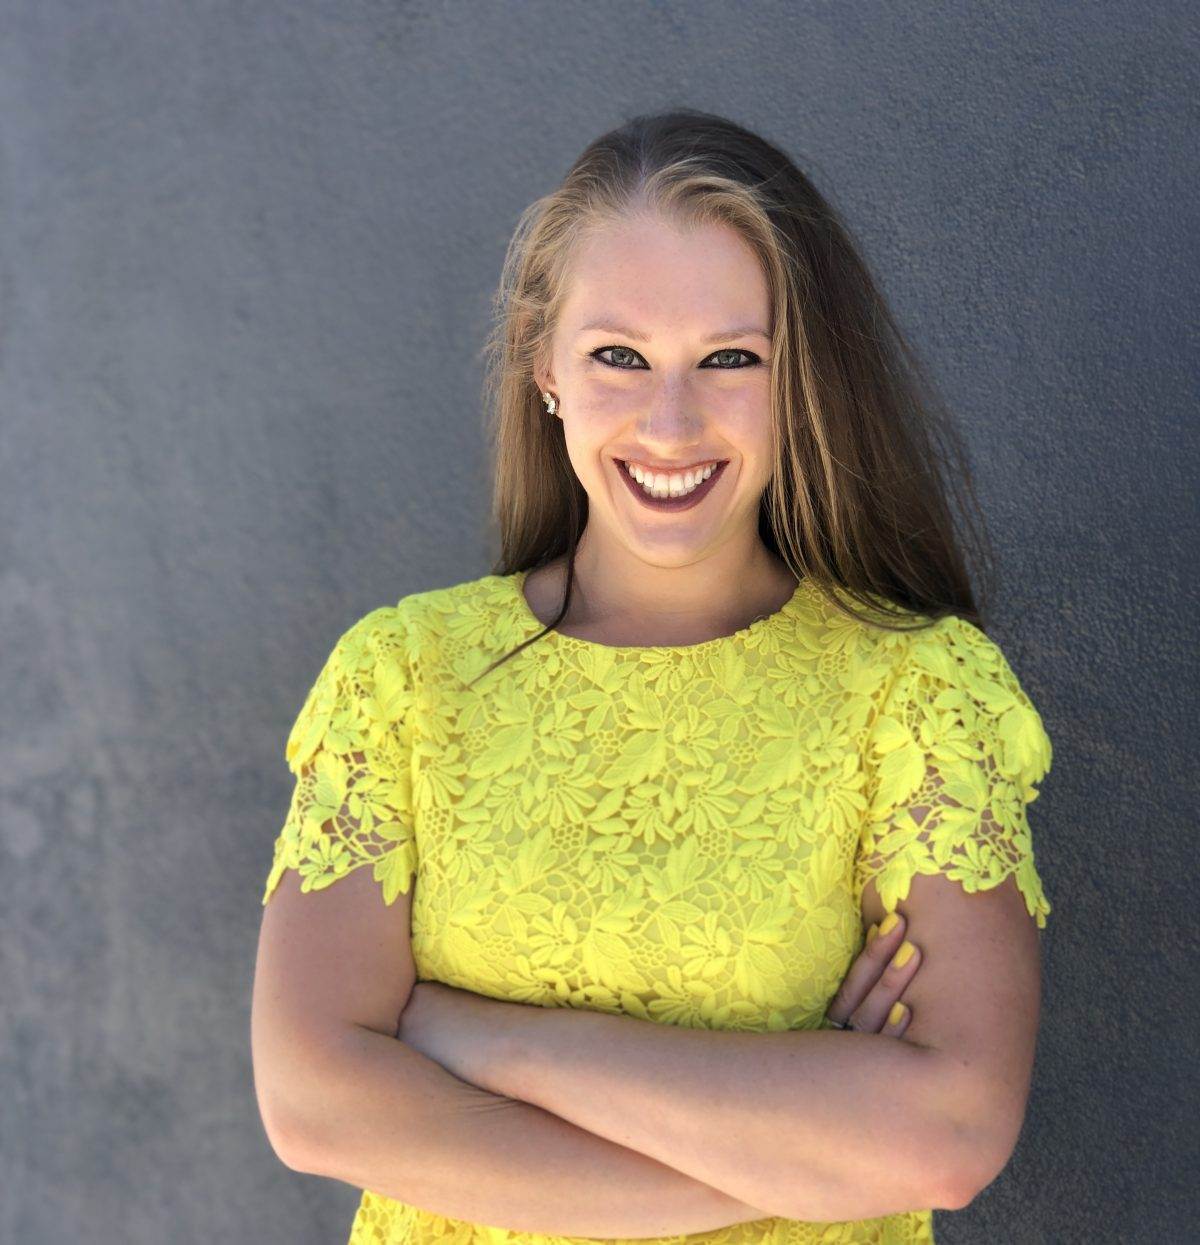
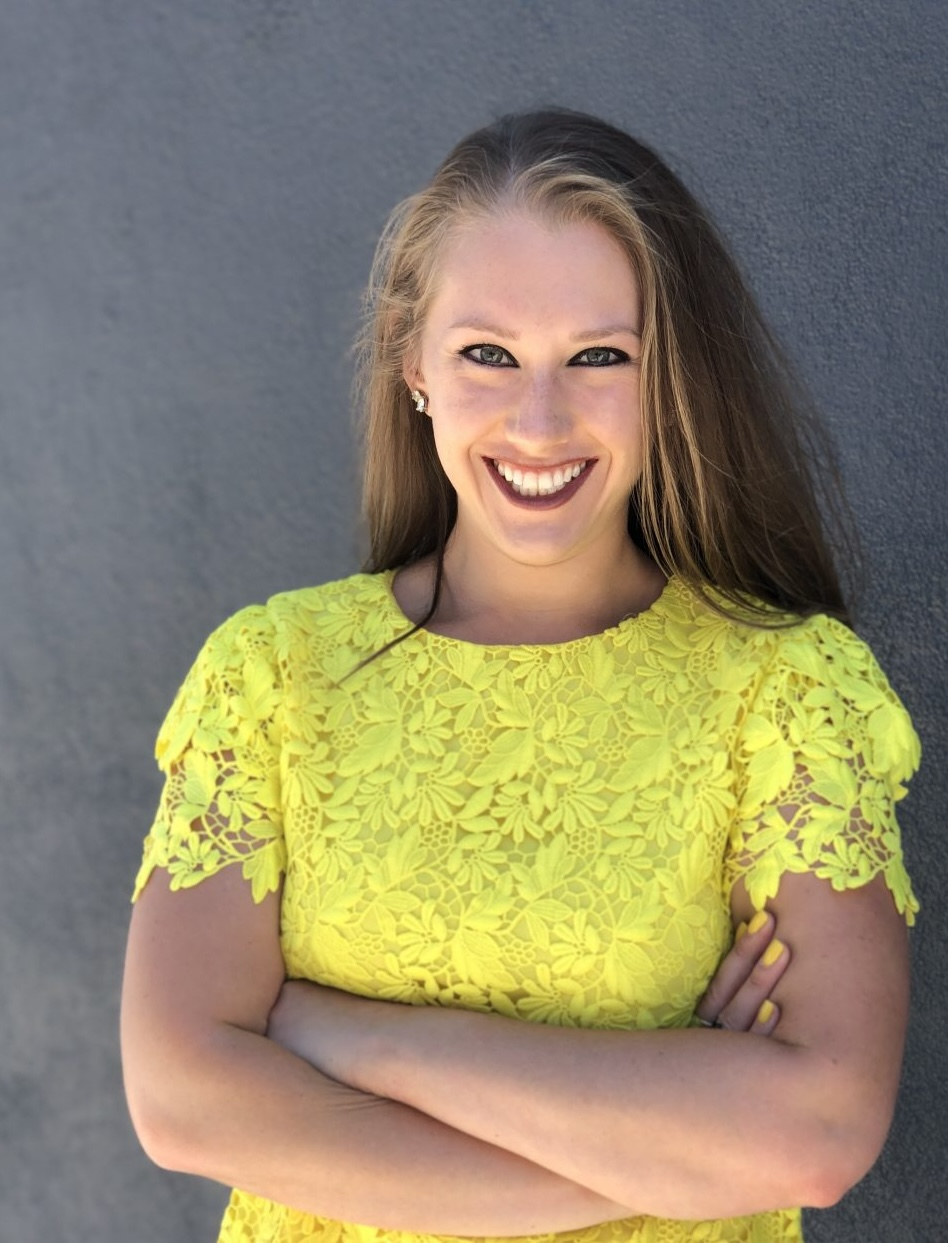
Updated headshots

diff --git a/src/App.js b/src/App.js
@@ -193,11 +193,12 @@ function App() {
                 nikki@robnaimanco.com
             </Figure.Caption>
         </Figure>
+        <br></br>
         <Figure className="Noah-Image">
             <Figure.Image
                 width={400}
-                height={437}
-                alt="400x437"
+                height={100}
+                alt="400x237"
                 src={noahImage}
             />
             <Figure.Caption style={{color:'#0384fc'}}>

diff --git a/src/App.css b/src/App.css
@@ -82,7 +82,7 @@ html {
 .Rob-Image {
     position: relative;
     margin-top: 8%;
-    margin-left: 3%;
+    margin-left: 23%;
     text-align: center;
     font-size: calc(20px + 2vmin);
 }
@@ -97,8 +97,8 @@ html {
 
 .Noah-Image {
     position: relative;
-    margin-top: 8%;
-    margin-left: 6%;
+    margin-top: 1%;
+    margin-left: 38%;
     text-align: center;
     font-size: calc(20px + 2vmin);
 }
